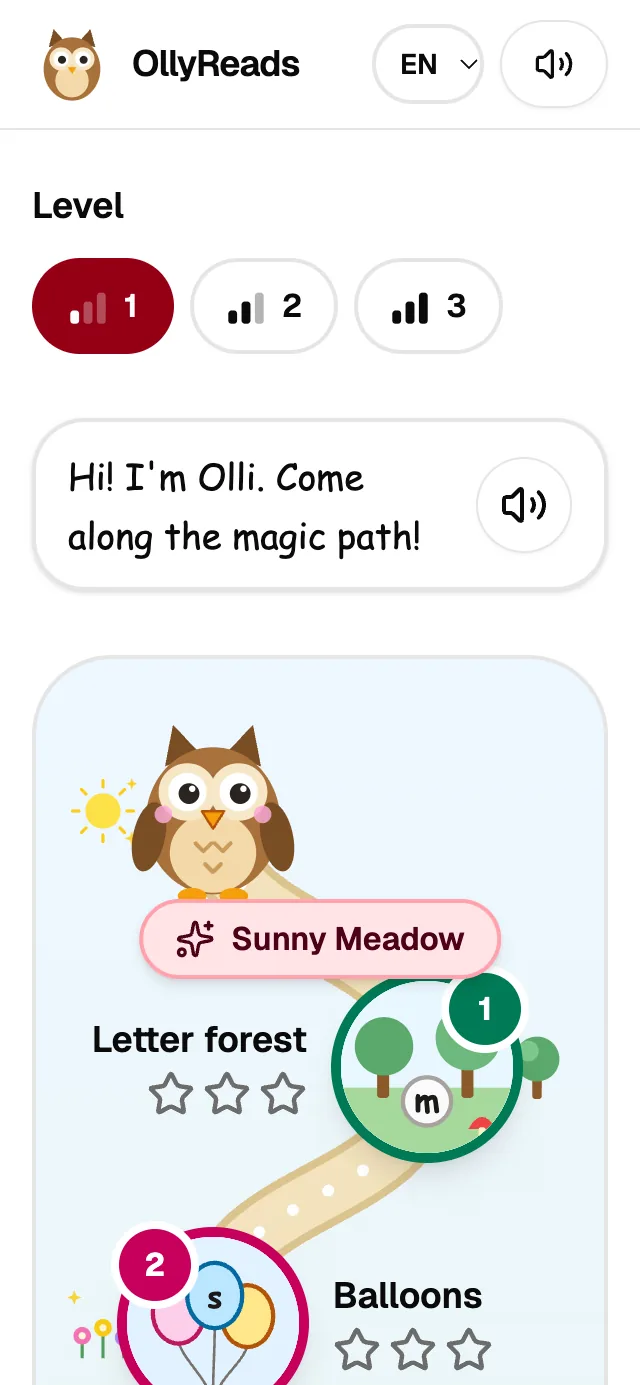
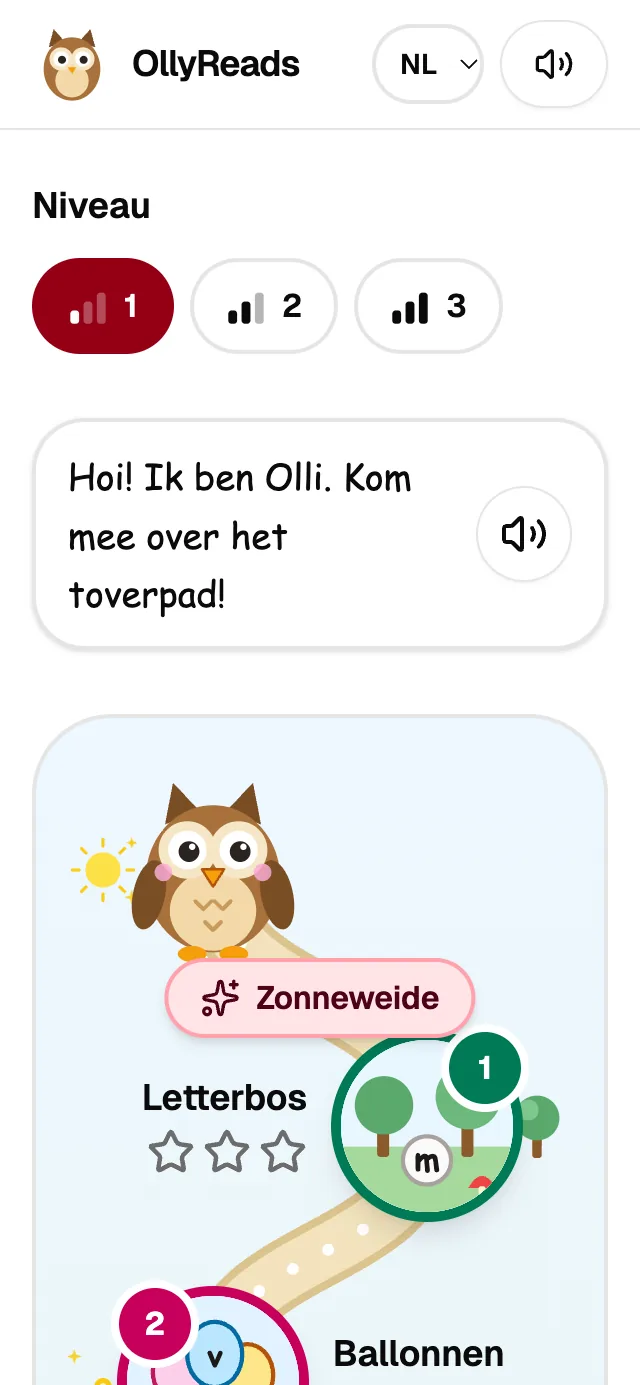
Make Dutch the default OllyReads language
The game opens in Dutch unless a player has chosen another language. The website now links to Dutch first, lists Dutch first and shows a Dutch screenshot.

diff --git a/site/games/lezen-met-olli/assets/index-i2isPJeQ.js b/site/games/lezen-met-olli/assets/index-i2isPJeQ.js
@@ -1,5 +1,5 @@
 const __ollyLangs=["nl","en","bg"],__ollyLangNames={nl:"Nederlands",en:"English",bg:"Български"};
-const __ollyLang=(()=>{let l=null;try{const q=new URLSearchParams(location.search).get("lang");if(__ollyLangs.includes(q)){l=q;localStorage.setItem("ollyreads-lang",q)}else{const s=localStorage.getItem("ollyreads-lang");__ollyLangs.includes(s)?l=s:localStorage.getItem("lezen-met-olli")!==null?l="nl":l=(navigator.languages||[navigator.language]).map(x=>String(x).slice(0,2).toLowerCase()).find(x=>__ollyLangs.includes(x))}}catch{}return l||"en"})();
+const __ollyLang=(()=>{let l=null;try{const q=new URLSearchParams(location.search).get("lang");if(__ollyLangs.includes(q)){l=q;localStorage.setItem("ollyreads-lang",q)}else{const s=localStorage.getItem("ollyreads-lang");__ollyLangs.includes(s)&&(l=s)}}catch{}return l||"nl"})();
 try{document.documentElement.lang=__ollyLang}catch{}
 const __ollyL=o=>__ollyLang in o?o[__ollyLang]:o.nl;
 const __ollyDict=__ollyL({nl:{},en:{"Leesspel":"Reading game","Taal":"Language","Naar het spel":"Skip to the game","Geluid en stem":"Sound and voice","Olli praat":"Olli talks","Spelgeluidjes":"Game sounds","Olli's stem":"Olli's voice","Stem":"Voice","Automatisch (beste stem)":"Automatic (best voice)","Geen Nederlandse stem gevonden op dit apparaat.":"No English voice found on this device.","Snelheid":"Speed","Toonhoogte":"Pitch","Luister":"Listen","Dit apparaat kan niet voorlezen.":"This device can't read aloud.","Je keuzes worden bewaard op dit apparaat.":"Your choices are saved on this device.","Langzaam":"Slow","Normaal":"Normal","Sneller":"Faster","Hoger":"Higher","Piepstem":"Squeaky"," (natuurlijk)":" (natural)","Hoi! Ik ben Olli. Zo klink ik!":"Hi! I'm Olli. This is how I sound!","Close":"Close","Letterbos":"Letter forest","Zoek de letters in het bos!":"Find the letters in the forest!","Ballonnen":"Balloons","Welke klank hoor je eerst? Prik de goede ballon!":"Which sound do you hear first? Pop the right balloon!","Rijmen":"Rhymes","Wat rijmt erop? Kies het goede plaatje.":"What rhymes? Pick the right picture.","Lees en kies":"Read and pick","Lees het woord. Welk plaatje hoort erbij?":"Read the word. Which picture goes with it?","Memory":"Memory","Zoek de paren: een woord en zijn plaatje!":"Find the pairs: a word and its picture!","Spring en klap":"Jump and clap","Doe mee met Olli!":"Join in with Olli!","Bouw het woord":"Build the word","Wat zie je? Bouw het woord met de klanken.":"What do you see? Build the word with the sounds.","Kort of lang":"Short or long","Wat zie je? Is de klank kort of lang? Kies het goede woord.":"What do you see? Is the vowel short or long? Pick the right word.","b of d":"b or d","Wat zie je? Mist er een b of een d?":"What do you see? Is a b or a d missing?","Wat zie je? Mist er een b, een d of een p?":"What do you see? Is a b, a d or a p missing?","Zaklamp":"Torch","Doe je zaklamp aan en zoek!":"Switch on your torch and search!","Toverdrank":"Magic potion","Giet de flesjes in de ketel. Wat brouw je?":"Pour the bottles into the cauldron. What will you brew?","Toverhoed":"Magic hat","Hocus pocus! Wat komt er uit de hoed?":"Hocus pocus! What comes out of the hat?","Zonneweide":"Sunny Meadow","Letterspeurder":"Letter Detective","Bloemenpad":"Flower Path","Boekenwurm":"Bookworm","Kasteelheuvel":"Castle Hill","Woordenbouwer":"Word Builder","Toverland":"Magic Land","Leesheld":"Reading Hero","Superleesheld":"Super Reading Hero","Makkelijk":"Easy","Moeilijker":"Harder","Moeilijkst":"Hardest","klap":"clap","stamp":"stamp","Klaar voor de start?":"Ready? Let's go!","Klap de stukjes: {0}!":"Clap the beats: {0}!","Klap de stukjes van {0}! {1}":"Clap the beats in {0}! {1}","{0} heeft {1} stukjes":"{0} has {1} beats","Klap, stamp, klap, stamp!":"Clap, stamp, clap, stamp!","Klap en stamp om de beurt! {0}":"Take turns to clap and stamp! {0}","Wat een ritme":"What a rhythm","Spring {0} keer!":"Jump {0} times!","Spring {0} keer, zo hoog als je kunt! {1}":"Jump {0} times, as high as you can! {1}","Wat spring jij hoog":"What high jumps","Klaar!":"Done!","Nog een keer":"Again","Start":"Start","Zoek {0} keer het woord {1}!":"Find the word {1} {0} times!","Zoek drie keer het woord {0}.":"Find the word {0} three times.","Zoek alle {0}'s!":"Find all the {0}'s!","Zoek alle {0}'s in het bos. De {1} van {2}.":"Find all the {0}'s in the forest. The {1} in {2}.","Dat is {0}. Zoek {1}!":"That's {0}. Find {1}!","Dat is een {0}. Zoek de {1}!":"That's {0}. Find {1}!","drie keer {0}":"three times {0}","de {0} van {1}":"the {0} in {1}","Het letterbos":"The letter forest","{0} van de {1} gevonden":"{0} of {1} found","Welke klank hoor je {0}? Prik de goede ballon!":"Which sound do you hear {0}? Pop the right balloon!","Welke klank hoor je {0} bij {1}? Prik de goede ballon!":"Listen: {1}. Which sound do you hear {0}? Pop the right balloon!","{0} begint met {1}":"{0} starts with {1}","{0} eindigt op {1}":"{0} ends with {1}","in {0} hoor je {1}":"in {0} you hear {1}","Bijna! Welke klank hoor je {0}?":"Almost! Which sound do you hear {0}?","Bijna! Welke klank hoor je {0} bij {1}?":"Almost! Listen: {1}. Which sound do you hear {0}?","Wat rijmt op {0}?":"What rhymes with {0}?","{0} en {1}. Dat rijmt!":"{0} and {1}. They rhyme!","Bijna! {0} rijmt niet op {1}.":"Almost! {0} doesn't rhyme with {1}.","{0} Luister: {1}.":"{0} Listen: {1}.","Lees de zin. Welk plaatje hoort erbij?":"Read the sentence. Which picture goes with it?","{0}: een paar!":"{0}: a pair!","je hebt alle paren gevonden":"you found all the pairs","Niet hetzelfde. De kaartjes gaan weer dicht.":"Not the same. The cards close again.","Kaartjes":"Cards","plaatje {0}":"picture {0}","Kaartje {0}":"Card {0}","Gevonden paren":"Pairs found","Bijna! Welke klank hoor je eerst?":"Almost! Which sound do you hear first?","Bijna! Welke klank hoor je daarna?":"Almost! Which sound do you hear next?","Luister naar het woord":"Listen to the word","Het woord":"The word","leeg":"empty","Klanken":"Sounds","Bijna! Lees het woord nog eens, letter voor letter.":"Almost! Read the word again, letter by letter.","Bijna! Luister goed: is de klank kort of lang?":"Almost! Listen carefully: is the vowel short or long?","Bijna! Denk aan het bed.":"Almost! Think of the bed.","Bijna! Luister nog eens goed.":"Almost! Listen carefully again.","Bijna! Luister nog eens goed: {0}.":"Almost! Listen carefully again: {0}.","Het bed":"The bed","Het woord bed, getekend als een bed: de b staat links, de d staat rechts.":"The word bed, drawn as a bed: the b is on the left, the d is on the right."," links, ":" left, "," rechts":" right","Zoek het woord bij het plaatje!":"Find the word for the picture!","Doe je zaklamp aan! Zoek het woord {0}.":"Switch on your torch! Find the word {0}.","Zoek de eerste letter!":"Find the first letter!","Doe je zaklamp aan! Zoek de eerste letter van {0}.":"Switch on your torch! Find the first letter of {0}.","Welke klank hoor je in het midden?":"Which sound do you hear in the middle?","Doe je zaklamp aan! Zoek de klank die je in het midden hoort bij {0}.":"Switch on your torch! Find the sound you hear in the middle of {0}.","Dat is {0}. Kijk nog eens naar het plaatje!":"That's {0}. Look at the picture again!","Dat is {0}. Zoek het woord {1}.":"That's {0}. Find the word {1}.","Dat is een {0}. Luister nog eens!":"That's {0}. Listen again!","Dat is een {0}. Luister nog eens: {1}.":"That's {0}. Listen again: {1}.","De donkere kamer":"The dark room","Licht aan! Je hebt het gevonden.":"Lights on! You found it.","Schijn met je zaklamp: beweeg of tik in de kamer.":"Shine your torch: move or tap in the room.","De flesjes":"The bottles","Flesje {0}":"Bottle {0}","In de ketel: {0}":"In the cauldron: {0}","Tik op het eerste flesje.":"Tap the first bottle.","Tik op het volgende flesje.":"Tap the next bottle.","Wat heb je gebrouwen?":"What did you brew?","Bijna! Plak de klanken nog eens aan elkaar.":"Almost! Blend the sounds together again.","Bijna! Plak de klanken nog eens aan elkaar. Wat brouw je?":"Almost! Blend the sounds together again. What will you brew?","De {0} wordt een {1}!":"{0} turns into {1}!","Hocus pocus! In {0} wordt de {1} een {2}. Wat komt er uit de hoed?":"Hocus pocus! In {0}, {1} turns into {2}. What comes out of the hat?","De {0} wordt een {1}":"{0} turns into {1}","Hocus pocus!":"Hocus pocus!","Wat komt er uit de hoed?":"What comes out of the hat?","{0} wordt {1}":"{0} becomes {1}","Bijna! Zeg het nieuwe woord eens hardop.":"Almost! Say the new word out loud.","Bijna! In {0} wordt de {1} een {2}. Zeg het nieuwe woord hardop.":"Almost! In {0}, {1} turns into {2}. Say the new word out loud.","{0} van de 3 sterren":"{0} of 3 stars","De schatkist is open!":"The treasure chest is open!","Jouw badge":"Your badge","Je krijgt de ":"You get the "," badge ":" badge ","De ":"The "," uit ":" from ","Op naar {0}":"On to {0}","Sluiten":"Close","Mijn badges":"My badges"," van ":" of ","Niveau ":"Level ","Niveau":"Level","{0}, nog niet gewonnen":"{0}, not won yet","Hoera!":"Hooray!","Je hebt álles uitgespeeld!":"You've finished everything!","Je hebt het toverpad uitgespeeld!":"You've finished the magic path!","Je bent een ":"You're a "," met alle ":" with all "," badges!":" badges!","Je bent een echte ":"You're a real "," en krijgt de ":" and you get the "," kroon.":" crown.","Al jouw badges":"All your badges","Jouw badges op Niveau {0}":"Your badges on Level {0}"," sterren":" stars","sticker":"sticker","stickers":"stickers","Klaar voor Niveau ":"Ready for Level ","? Daar verdien je ":"? There you can earn "," badges.":" badges.","Speel Niveau ":"Play Level ","Terug naar het pad":"Back to the path","Hoi! Ik ben Olli. Kom mee over het toverpad!":"Hi! I'm Olli. Come along the magic path!","Op slot":"Locked","{0} van de {1} spelletjes gespeeld":"{0} of {1} games played","Grote schatkist":"Big treasure chest","Schatkist":"Treasure chest","Open mij!":"Open me!","Niveau {0} {1}":"Level {0} {1}","Mijn stickers":"My stickers","{0}, {1} keer":"{0}, {1}×","Hoera! De schatkist is klaar. Tik erop!":"Hooray! The treasure chest is ready. Tap it!","Dit spelletje is nog op slot. Open eerst de schatkist!":"This game is still locked. Open the treasure chest first!","Speel eerst nog {0}. Dan gaat de schatkist open!":"Play {0} first. Then the treasure chest will open!","één spelletje":"one more game","{0} spelletjes":"{0} more games","Deze schatkist is nog op slot.":"This treasure chest is still locked.","Hoera! Je hebt het hele toverpad uitgespeeld. Je bent een echte Leesheld!{0}":"Hooray! You've finished the whole magic path. You're a real Reading Hero!{0}"," Probeer nu niveau {0}!":" Now try level {0}!","Hoera! Je bent een echte Leesheld!":"Hooray! You're a real Reading Hero!","Hoera! De schatkist is open. Je krijgt de badge {0}!":"Hooray! The treasure chest is open. You get the {0} badge!","Dit is jouw badge: {0}.":"This is your badge: {0}.","Opnieuw beginnen?":"Start again?","Alle sterren, stickers en badges op dit apparaat worden gewist. Dit kun je niet ongedaan maken.":"All stars, stickers and badges on this device will be deleted. This can't be undone.","Alles wissen":"Delete everything","Annuleren":"Cancel","Het toverpad":"The magic path",", op slot":", locked","Opnieuw beginnen":"Start again","Vraag {0} van {1}":"Question {0} of {1}","Nieuwe sticker":"New sticker"," Nog een keer":" Play again"," Ander spel":" Another game","Bijna! Probeer het nog eens.":"Almost! Try again.","Klaar! Goed gedaan!":"Done! Well done!","Klaar! Goed gedaan! Je krijgt {0} en een nieuwe sticker.":"Done! Well done! You get {0} and a new sticker.","een ster":"one star","{0} sterren":"{0} stars"," Terug":" Back","Verder ":"Next "},bg:{"Leesspel":"Игра за четене","Taal":"Език","Naar het spel":"Към играта","Geluid en stem":"Звук и глас","Olli praat":"Оли говори","Spelgeluidjes":"Звуци в играта","Olli's stem":"Гласът на Оли","Stem":"Глас","Automatisch (beste stem)":"Автоматично (най-добрият глас)","Geen Nederlandse stem gevonden op dit apparaat.":"На това устройство няма български глас.","Snelheid":"Скорост","Toonhoogte":"Височина на гласа","Luister":"Слушай","Dit apparaat kan niet voorlezen.":"Това устройство не може да чете на глас.","Je keuzes worden bewaard op dit apparaat.":"Изборът ти се пази на това устройство.","Langzaam":"Бавно","Normaal":"Нормално","Sneller":"По-бързо","Hoger":"По-високо","Piepstem":"Писклив"," (natuurlijk)":" (естествен)","Hoi! Ik ben Olli. Zo klink ik!":"Здравей! Аз съм Оли. Ето как звучи гласът ми!","Close":"Затвори","Letterbos":"Буквена гора","Zoek de letters in het bos!":"Намери буквите в гората!","Ballonnen":"Балони","Welke klank hoor je eerst? Prik de goede ballon!":"Кой звук чуваш първо? Спукай правилния балон!","Rijmen":"Рими","Wat rijmt erop? Kies het goede plaatje.":"Кое се римува? Избери правилната картинка.","Lees en kies":"Прочети и избери","Lees het woord. Welk plaatje hoort erbij?":"Прочети думата. Коя картинка подхожда?","Memory":"Мемори","Zoek de paren: een woord en zijn plaatje!":"Намери двойките: дума и нейната картинка!","Spring en klap":"Скачай и пляскай","Doe mee met Olli!":"Играй с Оли!","Bouw het woord":"Построй думата","Wat zie je? Bouw het woord met de klanken.":"Какво виждаш? Построй думата със звуковете.","Kort of lang":"Как се пише?","Wat zie je? Is de klank kort of lang? Kies het goede woord.":"Какво виждаш? Как се пише думата? Избери правилната.","b of d":"б или в","Wat zie je? Mist er een b of een d?":"Какво виждаш? Липсва ли б или в?","Wat zie je? Mist er een b, een d of een p?":"Какво виждаш? Липсва ли б, в или п?","Zaklamp":"Фенерче","Doe je zaklamp aan en zoek!":"Включи фенерчето и търси!","Toverdrank":"Вълшебна отвара","Giet de flesjes in de ketel. Wat brouw je?":"Изсипи шишенцата в котела. Какво ще свариш?","Toverhoed":"Вълшебна шапка","Hocus pocus! Wat komt er uit de hoed?":"Хокус-покус! Какво ще излезе от шапката?","Zonneweide":"Слънчева поляна","Letterspeurder":"Буквен детектив","Bloemenpad":"Цветна пътека","Boekenwurm":"Приятел на книгите","Kasteelheuvel":"Хълмът на замъка","Woordenbouwer":"Строител на думи","Toverland":"Вълшебна страна","Leesheld":"Герой на четенето","Superleesheld":"Супергерой на четенето","Makkelijk":"Лесно","Moeilijker":"По-трудно","Moeilijkst":"Най-трудно","klap":"пляс","stamp":"троп","Klaar voor de start?":"Готови? Старт!","Klap de stukjes: {0}!":"Плесни сричките: {0}!","Klap de stukjes van {0}! {1}":"Плесни сричките в {0}! {1}","{0} heeft {1} stukjes":"{0} има {1} срички","Klap, stamp, klap, stamp!":"Пляс, троп, пляс, троп!","Klap en stamp om de beurt! {0}":"Плесни и тропни поред! {0}","Wat een ritme":"Какъв ритъм","Spring {0} keer!":"Скочи {0} пъти!","Spring {0} keer, zo hoog als je kunt! {1}":"Скочи {0} пъти, колкото можеш по-високо! {1}","Wat spring jij hoog":"Колко високо скачаш","Klaar!":"Готово!","Nog een keer":"Още веднъж","Start":"Старт","Zoek {0} keer het woord {1}!":"Намери думата {1} {0} пъти!","Zoek drie keer het woord {0}.":"Намери думата {0} три пъти.","Zoek alle {0}'s!":"Намери всички букви {0}!","Zoek alle {0}'s in het bos. De {1} van {2}.":"Намери всички букви {0} в гората. Буквата {1} в думата {2}.","Dat is {0}. Zoek {1}!":"Това е {0}. Намери {1}!","Dat is een {0}. Zoek de {1}!":"Това е {0}. Намери {1}!","drie keer {0}":"три пъти {0}","de {0} van {1}":"буквата {0} в думата {1}","Het letterbos":"Буквената гора","{0} van de {1} gevonden":"Намерени {0} от {1}","Welke klank hoor je {0}? Prik de goede ballon!":"Кой звук чуваш {0}? Спукай правилния балон!","Welke klank hoor je {0} bij {1}? Prik de goede ballon!":"Чуй: {1}. Кой звук чуваш {0}? Спукай правилния балон!","{0} begint met {1}":"{0} започва с буквата {1}","{0} eindigt op {1}":"{0} завършва на {1}","in {0} hoor je {1}":"в думата {0} чуваш {1}","Bijna! Welke klank hoor je {0}?":"Почти! Кой звук чуваш {0}?","Bijna! Welke klank hoor je {0} bij {1}?":"Почти! Чуй: {1}. Кой звук чуваш {0}?","Wat rijmt op {0}?":"Намери рима за {0}!","{0} en {1}. Dat rijmt!":"{0} и {1}. Римуват се!","Bijna! {0} rijmt niet op {1}.":"Почти! {0} и {1} не се римуват.","{0} Luister: {1}.":"{0} Чуй: {1}.","Lees de zin. Welk plaatje hoort erbij?":"Прочети изречението. Коя картинка подхожда?","{0}: een paar!":"{0}: двойка!","je hebt alle paren gevonden":"намери всички двойки","Niet hetzelfde. De kaartjes gaan weer dicht.":"Не са еднакви. Картите се затварят.","Kaartjes":"Карти","plaatje {0}":"картинка {0}","Kaartje {0}":"Карта {0}","Gevonden paren":"Намерени двойки","Bijna! Welke klank hoor je eerst?":"Почти! Кой звук чуваш първо?","Bijna! Welke klank hoor je daarna?":"Почти! Кой звук чуваш след това?","Luister naar het woord":"Чуй думата","Het woord":"Думата","leeg":"празно","Klanken":"Звукове","Bijna! Lees het woord nog eens, letter voor letter.":"Почти! Прочети думата пак, буква по буква.","Bijna! Luister goed: is de klank kort of lang?":"Почти! Кажи думата за много неща и чуй последния звук.","Bijna! Denk aan het bed.":"Почти! Спомни си леглото.","Bijna! Luister nog eens goed.":"Почти! Чуй още веднъж внимателно.","Bijna! Luister nog eens goed: {0}.":"Почти! Чуй още веднъж: {0}.","Het bed":"Леглото","Het woord bed, getekend als een bed: de b staat links, de d staat rechts.":"Думата bed, нарисувана като легло: b е отляво, d е отдясно."," links, ":" отляво, "," rechts":" отдясно","Zoek het woord bij het plaatje!":"Намери думата за картинката!","Doe je zaklamp aan! Zoek het woord {0}.":"Включи фенерчето! Намери думата {0}.","Zoek de eerste letter!":"Намери първата буква!","Doe je zaklamp aan! Zoek de eerste letter van {0}.":"Включи фенерчето! Намери първата буква на {0}.","Welke klank hoor je in het midden?":"Кой звук чуваш в средата?","Doe je zaklamp aan! Zoek de klank die je in het midden hoort bij {0}.":"Включи фенерчето! Намери звука, който чуваш в средата на {0}.","Dat is {0}. Kijk nog eens naar het plaatje!":"Това е {0}. Погледни пак картинката!","Dat is {0}. Zoek het woord {1}.":"Това е {0}. Намери думата {1}.","Dat is een {0}. Luister nog eens!":"Това е {0}. Чуй пак!","Dat is een {0}. Luister nog eens: {1}.":"Това е {0}. Чуй пак: {1}.","De donkere kamer":"Тъмната стая","Licht aan! Je hebt het gevonden.":"Светна! Намери го.","Schijn met je zaklamp: beweeg of tik in de kamer.":"Свети с фенерчето: движи пръст или докосни стаята.","De flesjes":"Шишенцата","Flesje {0}":"Шишенце {0}","In de ketel: {0}":"В котела: {0}","Tik op het eerste flesje.":"Докосни първото шишенце.","Tik op het volgende flesje.":"Докосни следващото шишенце.","Wat heb je gebrouwen?":"Какво свари?","Bijna! Plak de klanken nog eens aan elkaar.":"Почти! Слей звуковете отново.","Bijna! Plak de klanken nog eens aan elkaar. Wat brouw je?":"Почти! Слей звуковете отново. Какво ще свариш?","De {0} wordt een {1}!":"{0} става {1}!","Hocus pocus! In {0} wordt de {1} een {2}. Wat komt er uit de hoed?":"Хокус-покус! В думата {0} {1} става {2}. Какво ще излезе от шапката?","De {0} wordt een {1}":"{0} става {1}","Hocus pocus!":"Хокус-покус!","Wat komt er uit de hoed?":"Какво ще излезе от шапката?","{0} wordt {1}":"{0} става {1}","Bijna! Zeg het nieuwe woord eens hardop.":"Почти! Кажи новата дума на глас.","Bijna! In {0} wordt de {1} een {2}. Zeg het nieuwe woord hardop.":"Почти! В думата {0} {1} става {2}. Кажи новата дума на глас.","{0} van de 3 sterren":"{0} от 3 звезди","De schatkist is open!":"Сандъкът със съкровища е отворен!","Jouw badge":"Твоята значка","Je krijgt de ":"Получаваш "," badge ":" значка ","De ":"Това е "," uit ":" от ","Op naar {0}":"Напред към {0}","Sluiten":"Затвори","Mijn badges":"Моите значки"," van ":" от ","Niveau ":"Ниво ","Niveau":"Ниво","{0}, nog niet gewonnen":"{0}, още не е спечелена","Hoera!":"Ура!","Je hebt álles uitgespeeld!":"Мина всичко!","Je hebt het toverpad uitgespeeld!":"Мина вълшебната пътека!","Je bent een ":"Ти си "," met alle ":" с всички "," badges!":" значки!","Je bent een echte ":"Ти си истински "," en krijgt de ":" и получаваш "," kroon.":" корона.","Al jouw badges":"Всичките ти значки","Jouw badges op Niveau {0}":"Твоите значки на Ниво {0}"," sterren":" звезди","sticker":"стикер","stickers":"стикера","Klaar voor Niveau ":"Към Ниво ","? Daar verdien je ":"? Там печелиш "," badges.":" значки.","Speel Niveau ":"Играй Ниво ","Terug naar het pad":"Обратно към пътеката","Hoi! Ik ben Olli. Kom mee over het toverpad!":"Здравей! Аз съм Оли. Ела с мен по вълшебната пътека!","Op slot":"Заключено","{0} van de {1} spelletjes gespeeld":"Изиграни {0} от {1} игри","Grote schatkist":"Голям сандък със съкровища","Schatkist":"Сандък със съкровища","Open mij!":"Отвори ме!","Niveau {0} {1}":"Ниво {0} {1}","Mijn stickers":"Моите стикери","{0}, {1} keer":"{0}, {1}×","Hoera! De schatkist is klaar. Tik erop!":"Ура! Сандъкът е готов. Докосни го!","Dit spelletje is nog op slot. Open eerst de schatkist!":"Тази игра още е заключена. Първо отвори сандъка!","Speel eerst nog {0}. Dan gaat de schatkist open!":"Изиграй още {0}. Тогава сандъкът ще се отвори!","één spelletje":"една игра","{0} spelletjes":"{0} игри","Deze schatkist is nog op slot.":"Този сандък още е заключен.","Hoera! Je hebt het hele toverpad uitgespeeld. Je bent een echte Leesheld!{0}":"Ура! Мина цялата вълшебна пътека. Ти си истински герой на четенето!{0}"," Probeer nu niveau {0}!":" Сега опитай ниво {0}!","Hoera! Je bent een echte Leesheld!":"Ура! Ти си истински герой на четенето!","Hoera! De schatkist is open. Je krijgt de badge {0}!":"Ура! Сандъкът е отворен. Получаваш значката {0}!","Dit is jouw badge: {0}.":"Това е твоята значка: {0}.","Opnieuw beginnen?":"Да започнем отначало?","Alle sterren, stickers en badges op dit apparaat worden gewist. Dit kun je niet ongedaan maken.":"Всички звезди, стикери и значки на това устройство ще бъдат изтрити. Това не може да се отмени.","Alles wissen":"Изтрий всичко","Annuleren":"Отказ","Het toverpad":"Вълшебната пътека",", op slot":", заключено","Opnieuw beginnen":"Започни отначало","Vraag {0} van {1}":"Въпрос {0} от {1}","Nieuwe sticker":"Нов стикер"," Nog een keer":" Още веднъж"," Ander spel":" Друга игра","Bijna! Probeer het nog eens.":"Почти! Опитай пак.","Klaar! Goed gedaan!":"Готово! Браво!","Klaar! Goed gedaan! Je krijgt {0} en een nieuwe sticker.":"Готово! Браво! Получаваш {0} и нов стикер.","een ster":"една звезда","{0} sterren":"{0} звезди"," Terug":" Назад","Verder ":"Напред "}});

diff --git a/site/index.html b/site/index.html
@@ -800,24 +800,24 @@
           <div>
             <div class="game-head"><h3 id="olli-h">OllyReads</h3><span class="badge-beta">Beta</span></div>
             <p class="sub">Early-reading game · <span class="nowrap">Ages 5–8</span></p>
-            <p class="desc">A cheerful reading game for beginning readers, in English, Dutch and Bulgarian. Olli the owl walks children along a magic path through four worlds of short games — letters, sounds, rhymes and words — and reads every instruction aloud. Each language has its own words and practises what makes reading hard in that language.</p>
+            <p class="desc">A cheerful reading game for beginning readers, in Dutch, English and Bulgarian. Olli the owl walks children along a magic path through four worlds of short games — letters, sounds, rhymes and words — and reads every instruction aloud. Each language has its own words and practises what makes reading hard in that language.</p>
             <ul class="game-points">
               <li>11 reading games plus a movement break</li>
               <li>Designed for early readers, including children with dyslexia</li>
-              <li>English: sounds like <span lang="en">“sh”</span> and <span lang="en">“ee”</span>, short and long vowels, and b or d</li>
               <li>Dutch: sound groups like <span lang="nl">“aa”</span>, <span lang="nl">“oe”</span> and <span lang="nl">“ui”</span> stay together, plus short or long vowels</li>
+              <li>English: sounds like <span lang="en">“sh”</span> and <span lang="en">“ee”</span>, short and long vowels, and b or d</li>
               <li>Bulgarian: the full Cyrillic alphabet, look-alike letters, and words that sound different from how they’re spelled, like <span lang="bg">зъб</span></li>
               <li>Four worlds, three levels and twelve badges to earn in each language</li>
               <li>No timers or lives — a wrong answer just means try again</li>
               <li>Olli speaks with your device’s voice for the chosen language. Without one, the game still works, just without Olli’s voice.</li>
             </ul>
             <div class="game-actions">
-              <a class="btn primary" href="/games/lezen-met-olli/?lang=en" hreflang="en"><svg class="icon" aria-hidden="true"><use href="#i-play"/></svg><span>Play OllyReads</span></a>
-              <span class="more">Also in <a href="/games/lezen-met-olli/?lang=nl" hreflang="nl" lang="nl">Nederlands</a> · <a href="/games/lezen-met-olli/?lang=bg" hreflang="bg" lang="bg">Български</a></span>
+              <a class="btn primary" href="/games/lezen-met-olli/?lang=nl" hreflang="nl"><svg class="icon" aria-hidden="true"><use href="#i-play"/></svg><span>Play OllyReads</span></a>
+              <span class="more">Also in <a href="/games/lezen-met-olli/?lang=en" hreflang="en">English</a> · <a href="/games/lezen-met-olli/?lang=bg" hreflang="bg" lang="bg">Български</a></span>
             </div>
             <div class="game-meta">
               <span class="tag">Ages 5–8</span>
-              <span class="tag"><span>English · <span lang="nl">Nederlands</span> · <span lang="bg">Български</span></span></span>
+              <span class="tag"><span><span lang="nl">Nederlands</span> · English · <span lang="bg">Български</span></span></span>
               <span class="tag">Phone, tablet &amp; computer</span>
             </div>
           </div>

diff --git a/site/privacy/index.html b/site/privacy/index.html
@@ -82,7 +82,7 @@
     <p>If a grown-up sets up a profile, it can also hold a first name, an age, an optional gender, the “what helps” and “Practise most” choices, and a favorite sticker theme. The buddy a child picks is saved too, with or without a profile. All of this is used only to fit the games to the child, and it stays on the device. You can delete it at any time with <strong>Remove profile</strong> in the game’s profile and settings.</p>
 
     <h3>OllyReads</h3>
-    <p>OllyReads is a reading game for beginning readers in English, Dutch and Bulgarian. It stores its settings and progress in your browser’s local storage, separately for each language: <code>lezen-met-olli</code> (Dutch), <code>lezen-met-olli-en</code> (English) and <code>lezen-met-olli-bg</code> (Bulgarian). This covers voice and sound settings, the chosen voice, speed and pitch, the level, stars, opened treasure chests and stickers. The chosen language is stored under <code>ollyreads-lang</code>. It doesn’t ask for a name or any other personal details. <strong>Start again</strong> in the game removes the stars, stickers and badges for the current language.</p>
+    <p>OllyReads is a reading game for beginning readers in Dutch, English and Bulgarian. It stores its settings and progress in your browser’s local storage, separately for each language: <code>lezen-met-olli</code> (Dutch), <code>lezen-met-olli-en</code> (English) and <code>lezen-met-olli-bg</code> (Bulgarian). This covers voice and sound settings, the chosen voice, speed and pitch, the level, stars, opened treasure chests and stickers. The chosen language is stored under <code>ollyreads-lang</code>. It doesn’t ask for a name or any other personal details. <strong>Start again</strong> in the game removes the stars, stickers and badges for the current language.</p>
 
     <h3>Read-aloud voices</h3>
     <p>Both games read instructions aloud with the speech voices your browser offers. Some of those voices are online voices — for example Microsoft Edge’s “Online (Natural)” voices and Chrome’s voices named “Google …”. When one of those is used, the browser sends the sentence being read to its maker’s speech service. Only the game’s own sentences and words are sent this way, never anything about the child. This is part of how the browser works, not something the games do.</p>

diff --git a/site/games/lezen-met-olli/index.html b/site/games/lezen-met-olli/index.html
@@ -1,10 +1,10 @@
 <!doctype html>
-<html lang="en">
+<html lang="nl">
   <head>
     <meta charset="UTF-8" />
     <meta name="viewport" content="width=device-width, initial-scale=1.0" />
     <meta name="color-scheme" content="light dark" />
-    <meta name="description" content="OllyReads: a playful early-reading game with Olli the owl, in English, Dutch and Bulgarian. Each language practises its own sounds and spelling." />
+    <meta name="description" content="OllyReads: a playful early-reading game with Olli the owl, in Dutch, English and Bulgarian. Each language practises its own sounds and spelling." />
     <meta name="theme-color" content="#fff8e8" />
     <link rel="icon" type="image/svg+xml" href="./favicon.svg" />
     <title>OllyReads</title>
@@ -14,13 +14,13 @@
     <meta property="og:type" content="website" />
     <meta property="og:site_name" content="Monkotorix" />
     <meta property="og:title" content="OllyReads (beta) — early-reading game" />
-    <meta property="og:description" content="A playful early-reading game with Olli the owl, in English, Dutch and Bulgarian. Short games for letters, sounds, rhymes and words, adapted to each language. No account, no ads, no tracking." />
+    <meta property="og:description" content="A playful early-reading game with Olli the owl, in Dutch, English and Bulgarian. Short games for letters, sounds, rhymes and words, adapted to each language. No account, no ads, no tracking." />
     <meta property="og:url" content="https://monkotorix.com/games/lezen-met-olli/" />
     <meta property="og:image" content="https://monkotorix.com/assets/og-lezen-met-olli.jpg" />
     <meta property="og:image:width" content="1200" />
     <meta property="og:image:height" content="630" />
     <meta name="twitter:card" content="summary_large_image" />
-    <script type="module" crossorigin src="./assets/index-rWNfcQ_s.js"></script>
+    <script type="module" crossorigin src="./assets/index-i2isPJeQ.js"></script>
     <link rel="stylesheet" crossorigin href="./assets/index-6P0PXtyb.css">
   </head>
   <body>

diff --git a/README.md b/README.md
@@ -16,7 +16,7 @@ served from the same site under `/games/<game>/`, and zero third-party requests.
 | `site/assets/site.js` | The only script: the light/dark theme switch (follows the system until a visitor picks a theme). |
 | `site/assets/` | Self-hosted fonts (Fraunces, Inter), icons, game screenshots and social-preview images. |
 | `site/games/spraklydoo/` | **SpraklyDoo** (beta), built from `../spraklydoo`. |
-| `site/games/lezen-met-olli/` | **OllyReads** (beta early-reading game in English, Dutch and Bulgarian), built from `../lezenmetollie`. The English and Bulgarian content and the language switch were added to the built bundle; rebuilding from the Dutch-only source would remove them. |
+| `site/games/lezen-met-olli/` | **OllyReads** (beta early-reading game in Dutch, English and Bulgarian), built from `../lezenmetollie`. The English and Bulgarian content and the language switch were added to the built bundle; rebuilding from the Dutch-only source would remove them. |
 | `site/privacy/` | Privacy notice for the website and both games. |
 | `site/404.html`, `robots.txt`, `sitemap.xml`, `.nojekyll` | Hosting files. |
 | `build-game.sh` | Rebuilds one or both games into `site/games/`. |
